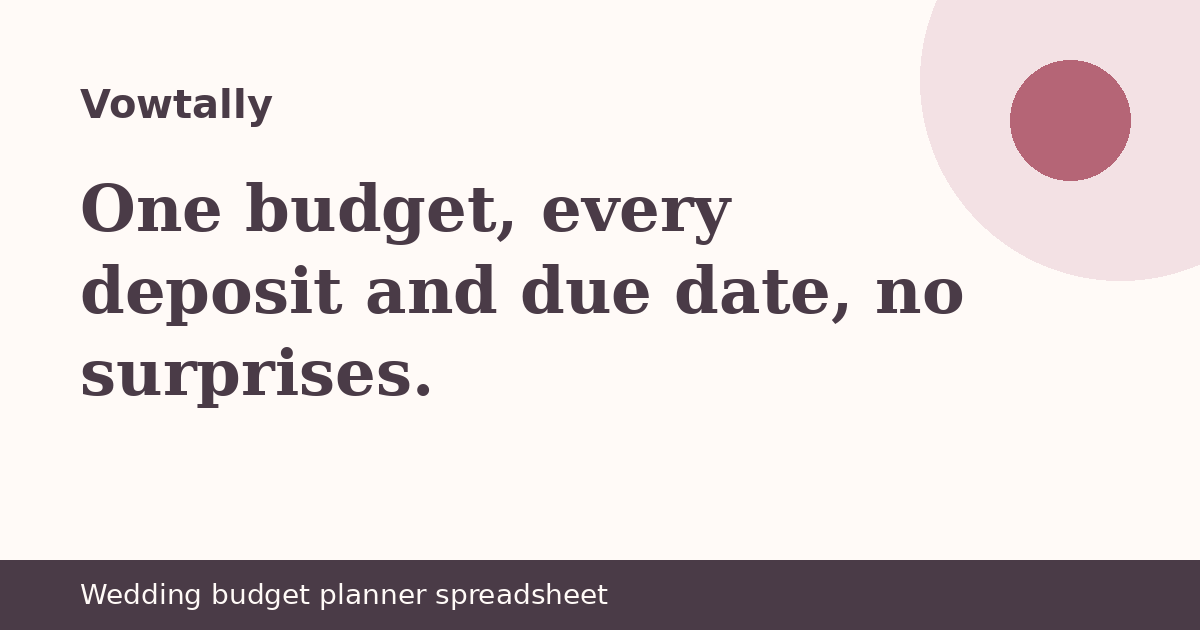
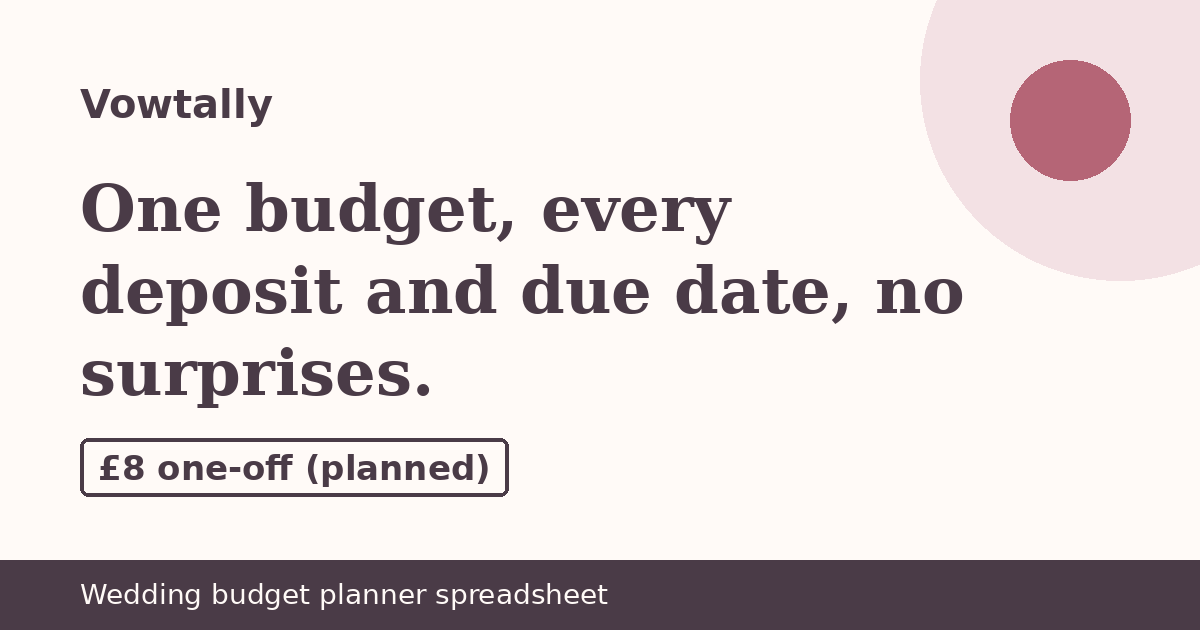
Publish site 2026-10-21 08:30 BST

Changed region(s): [[0.0617, 0.6937, 0.4317, 0.8143]]

diff --git a/index.html b/index.html
@@ -3,7 +3,7 @@
 <head>
 <meta charset="utf-8">
 <meta name="viewport" content="width=device-width, initial-scale=1">
-<meta http-equiv="Content-Security-Policy" content="default-src 'self'; img-src 'self' data: https://localreplyloop.goatcounter.com; style-src 'self'; script-src 'self'; font-src 'self'; connect-src 'self' https://formsubmit.co; form-action 'self'; base-uri 'self'; object-src 'none'">
+<meta http-equiv="Content-Security-Policy" content="default-src 'self'; img-src 'self' data: https://localreplyloop.goatcounter.com; style-src 'self'; script-src 'self'; font-src 'self'; connect-src 'self'; form-action 'self'; base-uri 'self'; object-src 'none'">
 <meta name="referrer" content="strict-origin-when-cross-origin">
 <title>Vowtally: One budget, every deposit and due date, no surprises</title>
 <meta name="description" content="A wedding budget spreadsheet with supplier deposits and due dates, guest-count scenarios and a who-pays split.">
@@ -21,21 +21,14 @@
 </head>
 <body>
 <a class="skip" href="#main">Skip to content</a>
-<header><div class="wrap top"><a class="brand" href="./"><svg viewBox="0 0 64 64" aria-hidden="true" width="34" height="34"><rect width="64" height="64" rx="16" fill="#4A3B47"/><text x="32" y="43" text-anchor="middle" font-family="Georgia, serif" font-weight="700" font-size="30" fill="#FFFAF7">V</text><circle cx="50" cy="50" r="6" fill="#B56576"/></svg>Vowtally</a><nav aria-label="Primary"><a href="#how">How it works</a><a href="#faq">Questions</a><a href="#contact">Contact</a></nav></div></header><section class="hero"><div class="wrap"><div class="art"><svg viewBox="0 0 400 400" role="img" aria-label="Decorative pattern" class="motif" preserveAspectRatio="xMidYMid slice"><circle cx="200" cy="200" r="40" fill="none" stroke="#4A3B47" stroke-opacity="0.90" stroke-width="10"/><circle cx="200" cy="200" r="68" fill="none" stroke="#B56576" stroke-opacity="0.78" stroke-width="9"/><circle cx="200" cy="200" r="96" fill="none" stroke="#4A3B47" stroke-opacity="0.66" stroke-width="8"/><circle cx="200" cy="200" r="124" fill="none" stroke="#B56576" stroke-opacity="0.54" stroke-width="7"/><circle cx="200" cy="200" r="152" fill="none" stroke="#4A3B47" stroke-opacity="0.42" stroke-width="6"/><circle cx="200" cy="200" r="180" fill="none" stroke="#B56576" stroke-opacity="0.30" stroke-width="5"/></svg></div><span class="draft">Draft: not yet available. Enquiries welcome.</span><br><span class="eyebrow">Digital product · draft · Wedding budget planner spreadsheet</span><h1>One budget, every deposit and due date, no surprises.</h1><p class="lede">Vowtally tracks every supplier&#x27;s quote, deposit and balance due date, shows how the total moves if the guest list grows, and keeps a clear record of who is paying for what.</p><div class="ctas"><a class="btn" href="#contact" data-cta="hero">Tell me when it&#x27;s ready</a><a class="btn ghost" href="#faq" data-cta="hero-secondary">Questions</a></div></div></section>
+<header><div class="wrap top"><a class="brand" href="./"><svg viewBox="0 0 64 64" aria-hidden="true" width="34" height="34"><rect width="64" height="64" rx="16" fill="#4A3B47"/><text x="32" y="43" text-anchor="middle" font-family="Georgia, serif" font-weight="700" font-size="30" fill="#FFFAF7">V</text><circle cx="50" cy="50" r="6" fill="#B56576"/></svg>Vowtally</a><nav aria-label="Primary"><a href="#how">How it works</a><a href="#faq">Questions</a><a href="#contact">Contact</a></nav></div></header>
 <main id="main">
+<section class="hero"><div class="wrap"><figure class="art"><svg viewBox="0 0 400 400" aria-hidden="true" focusable="false" class="motif"><circle cx="110" cy="140" r="56" fill="#B56576"/><circle cx="110" cy="140" r="40" fill="#FFFAF7"/><circle cx="170" cy="160" r="56" fill="#4A3B47"/><circle cx="170" cy="160" r="40" fill="#FFFAF7"/><rect x="220" y="120" width="150" height="240" rx="14" fill="#4A3B47"/><rect x="228" y="128" width="134" height="224" rx="8" fill="#FFFAF7"/><rect x="244" y="150" width="104" height="8" rx="4" fill="#F3E1E4"/><rect x="244" y="182" width="74" height="8" rx="4" fill="#F3E1E4"/><rect x="244" y="214" width="44" height="8" rx="4" fill="#F3E1E4"/><rect x="244" y="246" width="104" height="8" rx="4" fill="#F3E1E4"/><rect x="244" y="278" width="74" height="8" rx="4" fill="#F3E1E4"/><rect x="244" y="310" width="44" height="8" rx="4" fill="#F3E1E4"/><rect x="40" y="260" width="160" height="100" rx="12" fill="#F3E1E4"/><rect x="60" y="300" width="120" height="8" rx="4" fill="#4A3B47"/></svg><figcaption class="fine">Illustrative</figcaption></figure><span class="draft">Draft: not yet available. Enquiries welcome.</span><br><span class="eyebrow">Digital product · draft · Wedding budget planner spreadsheet</span><h1>One budget, every deposit and due date, no surprises.</h1><p class="lede">Vowtally tracks every supplier&#x27;s quote, deposit and balance due date, shows how the total moves if the guest list grows, and keeps a clear record of who is paying for what.</p><div class="ctas"><a class="btn" href="#contact" data-cta="hero">Tell me when it&#x27;s ready</a><a class="btn ghost" href="#faq" data-cta="hero-secondary">Questions</a></div></div></section>
 <section class="tint" id="how"><div class="wrap"><span class="eyebrow">How it works</span><h2>A wedding budget spreadsheet with supplier deposits and due dates, guest-count scenarios and a who-pays split.</h2><div class="steps"><div class="step"><h3>Set your total</h3><p>And who is contributing.</p></div><div class="step"><h3>Add suppliers</h3><p>Quote, deposit paid, balance and due date.</p></div><div class="step"><h3>Test guest numbers</h3><p>See the total at 60, 80 or 100 guests.</p></div></div></div></section>
 <section><div class="wrap"><span class="eyebrow">Who it is for</span><h2>For couples planning a UK wedding on a fixed budget.</h2><div class="points"><div class="point"><h3>Due-date view</h3><p>Upcoming balances listed in date order.</p></div><div class="point"><h3>Guest scenarios</h3><p>Per-head costs recalculated instantly.</p></div><div class="point"><h3>Contributions split</h3><p>Clear record of family contributions.</p></div></div></div></section>
-<section class="tint" id="price"><div class="wrap"><span class="eyebrow">Planned price</span><div class="pricebox"><p class="price">£8 one-off (planned)</p><p>This product is a draft and is not on sale yet. Nothing can be bought on this website. Register interest and we&#x27;ll email you when it&#x27;s ready.</p></div></div></section>
+<section class="tint" id="price"><div class="wrap"><span class="eyebrow">Planned price</span><div class="pricebox"><p class="price">£8 one-off (planned)</p><p>This product is a draft and is not on sale yet. Nothing can be bought on this website. You can register interest; we can’t promise a reply or a date yet.</p></div></div></section>
 <section id="faq"><div class="wrap"><span class="eyebrow">Questions</span><h2>Common questions</h2><details><summary>Is it on sale now?</summary><p>Not yet. Vowtally is a draft product. Ask to hear when it&#x27;s ready.</p></details><details><summary>Does it suggest what things should cost?</summary><p>No. You enter your own quotes. We don&#x27;t publish average prices.</p></details><details><summary>Which software does it need?</summary><p>Google Sheets or Excel.</p></details><p class="fine" style="margin-top:18px">Vowtally is a budgeting template. It is not financial advice.</p></div></section>
-<section class="tint" id="contact"><div class="wrap contact-grid"><div><span class="eyebrow">Contact</span><h2>Register interest</h2><p>Vowtally is new and run by one person. Every message is read and answered by email, usually within two working days.</p><p>Email: <a href="mailto:localreply+vowtally@agentmail.to">localreply+vowtally@agentmail.to</a></p></div><form class="form" data-contact data-formsubmit="localreply+vowtally@agentmail.to" data-email="localreply+vowtally@agentmail.to" data-subject="Vowtally enquiry" novalidate>
-<div><label for="f-name">Your name</label><input id="f-name" name="name" autocomplete="name" required></div>
-<div><label for="f-email">Email</label><input id="f-email" name="email" type="email" autocomplete="email" required></div>
-<div><label for="f-plan">About</label><select id="f-plan" name="plan"><option value="Tell me when it&#x27;s ready">Tell me when it&#x27;s ready</option><option value="I have a question">I have a question</option></select></div>
-<div><label for="f-message">Message</label><textarea id="f-message" name="message"></textarea></div>
-<p class="hint">Your message goes to our inbox through FormSubmit (formsubmit.co), our form-delivery provider. If that fails, your own email app opens instead. See our <a href="privacy.html">privacy notice</a>.</p>
-<button class="btn" type="submit">Tell me when it&#x27;s ready</button>
-<p class="form-status" role="status" aria-live="polite"></p>
-</form></div></section>
+<section class="tint" id="contact"><div class="wrap contact-grid"><div><span class="eyebrow">Contact</span><h2>Register interest</h2><p>Vowtally is new and run by one person. Messages go to our inbox. We can’t promise a reply or a timeframe yet.</p><p>Email: <a href="mailto:localreply+vowtally@agentmail.to">localreply+vowtally@agentmail.to</a></p></div><div class="form contact-mail"><p><a class="btn" href="mailto:localreply+vowtally@agentmail.to?subject=%5BVowtally%5D%20Enquiry" data-cta="enquire">Email Vowtally</a></p><p class="hint">This opens your own email app. Nothing is sent through this website. See our <a href="privacy.html">privacy notice</a>.</p></div></div></section>
 </main><footer><div class="wrap"><p>Operated by a UK sole trader trading as Vowtally. Contact: localreply+vowtally@agentmail.to. Postal address available on written request.</p>
 <p><a href="privacy.html">Privacy</a><a href="terms.html">Terms</a><a href="./#contact">Contact</a></p>
 <p class="fine">Vowtally is a budgeting template. It is not financial advice.</p></div></footer>

diff --git a/privacy.html b/privacy.html
@@ -3,7 +3,7 @@
 <head>
 <meta charset="utf-8">
 <meta name="viewport" content="width=device-width, initial-scale=1">
-<meta http-equiv="Content-Security-Policy" content="default-src 'self'; img-src 'self' data: https://localreplyloop.goatcounter.com; style-src 'self'; script-src 'self'; font-src 'self'; connect-src 'self' https://formsubmit.co; form-action 'self'; base-uri 'self'; object-src 'none'">
+<meta http-equiv="Content-Security-Policy" content="default-src 'self'; img-src 'self' data: https://localreplyloop.goatcounter.com; style-src 'self'; script-src 'self'; font-src 'self'; connect-src 'self'; form-action 'self'; base-uri 'self'; object-src 'none'">
 <meta name="referrer" content="strict-origin-when-cross-origin">
 <title>Privacy notice | Vowtally</title>
 <meta name="description" content="Privacy notice for Vowtally.">
@@ -21,13 +21,13 @@
 </head>
 <body>
 <a class="skip" href="#main">Skip to content</a>
-<header><div class="wrap top"><a class="brand" href="./"><svg viewBox="0 0 64 64" aria-hidden="true" width="34" height="34"><rect width="64" height="64" rx="16" fill="#4A3B47"/><text x="32" y="43" text-anchor="middle" font-family="Georgia, serif" font-weight="700" font-size="30" fill="#FFFAF7">V</text><circle cx="50" cy="50" r="6" fill="#B56576"/></svg>Vowtally</a><nav aria-label="Primary"><a href="#how">How it works</a><a href="#faq">Questions</a><a href="#contact">Contact</a></nav></div></header><main id="main"><section><div class="wrap legal"><h1>Privacy notice</h1><p class="fine">Last updated 19 October 2026</p>
+<header><div class="wrap top"><a class="brand" href="./"><svg viewBox="0 0 64 64" aria-hidden="true" width="34" height="34"><rect width="64" height="64" rx="16" fill="#4A3B47"/><text x="32" y="43" text-anchor="middle" font-family="Georgia, serif" font-weight="700" font-size="30" fill="#FFFAF7">V</text><circle cx="50" cy="50" r="6" fill="#B56576"/></svg>Vowtally</a><nav aria-label="Primary"><a href="#how">How it works</a><a href="#faq">Questions</a><a href="#contact">Contact</a></nav></div></header><main id="main"><section><div class="wrap legal"><h1>Privacy notice</h1><p class="fine">Last updated 20 October 2026</p>
 <p><span>Operated by a UK sole trader trading as Vowtally. Contact: localreply+vowtally@agentmail.to. Postal address available on written request.</span> We are the controller for the personal data described here. For anything in this notice, email <a href="mailto:localreply+vowtally@agentmail.to">localreply+vowtally@agentmail.to</a> with “Vowtally” in the subject line.</p>
-<h2>What we collect</h2><p>If you use the form or email us, we receive your name, email address, anything you write in your message and, if you give it, your postcode or town. We use it only to reply to you and, if you ask for it, to deal with your enquiry.</p>
+<h2>What we collect</h2><p>If you email us, we receive your name, email address, anything you write in your message and, if you give it, your postcode or town. We use it only to reply to you and, if you ask for it, to deal with your enquiry.</p>
 <h2>Lawful basis</h2><p>Replying to an enquiry you send us is in our legitimate interests, or steps taken at your request before any agreement (UK GDPR Article 6(1)(f) and 6(1)(b)).</p>
-<h2>Who processes it for us</h2><p>FormSubmit (formsubmit.co) delivers form messages to our inbox. AgentMail (agentmail.to) hosts the inbox. GitHub Pages hosts this website and may log technical data such as IP addresses for security. Some of these providers process data outside the UK under their own safeguards.</p>
+<h2>Who processes it for us</h2><p>AgentMail (agentmail.to) hosts our inbox. GitHub Pages hosts this website and may log technical data such as IP addresses for security. Some of these providers process data outside the UK under their own safeguards.</p>
 <h2>Cookies and analytics</h2><p>We set no cookies. We count page views with GoatCounter, which records the page, referrer and screen size but no cookies and no personal profile. It does not run if your browser sends Do Not Track or Global Privacy Control.</p>
-<h2>How long we keep it</h2><p>We keep enquiry emails for up to 12 months after our last contact, unless you become a customer, in which case we keep records as the law requires.</p>
+<h2>How long we keep it</h2><p>We delete enquiry and order data 30 days after our last contact or after delivery. We keep only the basic order record that tax law requires.</p>
 <h2>Your rights</h2><p>You can ask for a copy of your data, ask us to correct or delete it, or object to how we use it, by emailing <a href="mailto:localreply+vowtally@agentmail.to">localreply+vowtally@agentmail.to</a>. You can complain to the Information Commissioner's Office (ico.org.uk).</p></div></section></main><footer><div class="wrap"><p>Operated by a UK sole trader trading as Vowtally. Contact: localreply+vowtally@agentmail.to. Postal address available on written request.</p>
 <p><a href="privacy.html">Privacy</a><a href="terms.html">Terms</a><a href="./#contact">Contact</a></p>
 <p class="fine">Vowtally is a budgeting template. It is not financial advice.</p></div></footer>

diff --git a/assets/site.css b/assets/site.css
@@ -1,7 +1,7 @@
 @font-face{font-family:'Source Serif 4';font-weight:700;font-style:normal;font-display:swap;src:url(fonts/source-serif-4-latin-700-normal.woff2) format('woff2')}
 @font-face{font-family:'IBM Plex Sans';font-weight:400;font-style:normal;font-display:swap;src:url(fonts/ibm-plex-sans-latin-400-normal.woff2) format('woff2')}
 @font-face{font-family:'IBM Plex Sans';font-weight:600;font-style:normal;font-display:swap;src:url(fonts/ibm-plex-sans-latin-600-normal.woff2) format('woff2')}
-:root{--ink:#4A3B47;--paper:#FFFAF7;--acc:#B56576;--acc-text:#A24E60;--on-acc:#111111;--soft:#F3E1E4;--on-ink:#FFFAF7;--r:10px;--br:10px;--head:'Source Serif 4', Georgia, serif;--body:'IBM Plex Sans', system-ui, sans-serif}
+:root{--ink:#4A3B47;--paper:#FFFAF7;--acc:#B56576;--acc-text:#944757;--on-acc:#111111;--acc-btn:#BA6F7E;--soft:#F3E1E4;--on-ink:#FFFAF7;--r:10px;--br:10px;--head:'Source Serif 4', Georgia, serif;--body:'IBM Plex Sans', system-ui, sans-serif}
 *,*::before,*::after{box-sizing:border-box}html{scroll-behavior:smooth}@media (prefers-reduced-motion:reduce){html{scroll-behavior:auto}*{transition:none!important}}
 body{margin:0;font-family:var(--body);color:var(--ink);background:var(--paper);line-height:1.6;font-size:17px;-webkit-font-smoothing:antialiased}
 h1,h2,h3{font-family:var(--head);line-height:1.15;margin:0 0 .5em;letter-spacing:-.01em}h1{font-size:clamp(2.1rem,5vw,3.6rem)}h2{font-size:clamp(1.5rem,3vw,2.2rem)}h3{font-size:1.15rem}
@@ -10,11 +10,11 @@ p{margin:0 0 1em}a{color:var(--ink);text-decoration-color:var(--acc);text-underl
 :focus-visible{outline:3px solid var(--acc);outline-offset:2px}
 .top{display:flex;align-items:center;justify-content:space-between;padding:18px 0;gap:16px}.brand{display:flex;align-items:center;gap:10px;font-family:var(--head);font-weight:700;font-size:1.25rem;text-decoration:none}
 .top nav a{margin-left:18px;font-size:.95rem;text-decoration:none}.top nav a:hover{text-decoration:underline}
-.btn{display:inline-block;background:var(--acc);color:var(--on-acc);padding:13px 22px;border-radius:var(--br);font-weight:600;text-decoration:none;border:2px solid var(--acc);cursor:pointer;font:inherit;font-weight:600}
-.btn:hover{filter:brightness(.94)}.btn.ghost{background:transparent;color:var(--ink);border-color:var(--ink)}
+.btn{display:inline-block;background:var(--acc-btn);color:var(--on-acc);padding:13px 22px;border-radius:var(--br);font-weight:600;text-decoration:none;border:2px solid var(--acc-btn);cursor:pointer;font:inherit;font-weight:600}
+.btn:hover{filter:none;box-shadow:inset 0 0 0 2px currentColor}.btn.ghost{background:transparent;color:var(--ink);border-color:var(--ink)}
 .eyebrow{display:inline-block;font-size:.8rem;letter-spacing:.12em;text-transform:uppercase;font-weight:600;color:var(--acc-text);margin-bottom:12px}
 .hero{padding:48px 0 64px}.hero .lede{font-size:1.15rem;max-width:40em}.ctas{display:flex;gap:12px;flex-wrap:wrap;margin-top:22px}
-.motif{width:100%;height:auto;max-width:420px;display:block}
+.motif{width:100%;height:auto;max-width:420px;display:block}.art{margin:0}
 .draft{display:inline-block;background:var(--soft);border:1px dashed var(--ink);padding:3px 10px;border-radius:999px;font-size:.82rem;font-weight:600;margin-bottom:14px}
 section{padding:56px 0}.tint{background:var(--soft)}
 .steps{display:grid;grid-template-columns:repeat(auto-fit,minmax(220px,1fr));gap:22px;counter-reset:s}
@@ -25,8 +25,8 @@ section{padding:56px 0}.tint{background:var(--soft)}
 details{border-bottom:1px solid color-mix(in srgb,var(--ink) 18%,transparent);padding:14px 0}summary{cursor:pointer;font-weight:600}details p{margin-top:10px}
 .form{display:grid;gap:14px;max-width:620px}.form label{font-weight:600;font-size:.95rem;display:block;margin-bottom:4px}
 .form input,.form textarea,.form select{width:100%;padding:12px;border:1.5px solid color-mix(in srgb,var(--ink) 40%,transparent);border-radius:calc(var(--r)/2);font:inherit;background:#fff;color:#111}
-.form textarea{min-height:120px}.hint,.fine{font-size:.88rem;opacity:.85}.form-status{font-weight:600}
-.contact-grid{display:grid;grid-template-columns:1fr 1.2fr;gap:40px}@media(max-width:800px){.contact-grid{grid-template-columns:1fr}.top nav{display:none}}
+.form textarea{min-height:120px}.hint,.fine{font-size:.88rem}.form-status{font-weight:600}
+.contact-grid{display:grid;grid-template-columns:1fr 1.2fr;gap:40px}@media(max-width:800px){.contact-grid{grid-template-columns:1fr}.top nav a:not([href="#contact"]){display:none}.top nav a{margin-left:0;padding:10px 0;font-weight:600}}
 footer{padding:36px 0 48px;font-size:.9rem;border-top:1px solid color-mix(in srgb,var(--ink) 15%,transparent)}footer a{margin-right:14px}
 .tool{background:var(--paper);border:2px solid var(--ink);border-radius:var(--r);padding:26px;max-width:640px}.tool .row{display:grid;grid-template-columns:1fr 140px;gap:12px;align-items:center;margin-bottom:10px}
 .tool input[type=number]{padding:10px;border:1.5px solid var(--ink);border-radius:8px;font:inherit;width:100%}.result{margin-top:16px;padding:16px;background:var(--soft);border-radius:calc(var(--r)/2);min-height:3em}

diff --git a/_shared/kit.js b/_shared/kit.js
@@ -69,24 +69,8 @@
     form.addEventListener("submit", function (e) {
       e.preventDefault();
       if (!form.reportValidity()) return;
-      // 2026-10-14: if data-formsubmit is set, deliver via FormSubmit.co straight to the brand inbox; mailto stays as fallback.
-      var fsTok = form.getAttribute("data-formsubmit");
-      if (fsTok && !form.__fsFallback && window.fetch) {
-        var fd = new FormData(form), payload = {}, st = form.querySelector("[role=status]");
-        fd.forEach(function (v, k) { if (k !== "consent") payload[k] = String(v); });
-        payload._subject = (form.getAttribute("data-subject") || "Enquiry") + (payload.business ? " — " + payload.business : "");
-        if (payload.email) payload._replyto = payload.email;
-        payload._captcha = "false"; payload._template = "table";
-        fetch("https://formsubmit.co/ajax/" + fsTok, { method: "POST", headers: { "Content-Type": "application/json", "Accept": "application/json" }, body: JSON.stringify(payload) })
-          .then(function (r) { return r.json(); })
-          .then(function (j) {
-            if (String(j.success) !== "true") throw new Error("fs");
-            if (st) { st.textContent = "Thanks" + (payload.name ? ", " + payload.name.trim().split(" ")[0] : "") + " — your message has been sent. We reply by email."; st.classList.add("is-visible"); }
-            track("contact_sent", { plan: payload.plan || null }); form.reset();
-          })
-          .catch(function () { form.__fsFallback = true; if (st) { st.textContent = "Sending didn't work — opening your email app instead."; st.classList.add("is-visible"); } form.requestSubmit ? form.requestSubmit() : form.dispatchEvent(new Event("submit", { cancelable: true })); });
-        return;
-      }
+      // The form only composes an email
+      // in the visitor's own mail app; nothing is sent through any third-party form processor.
       var to = form.getAttribute("data-email") || cfg.contactEmail;
       var data = new FormData(form);
       var name = (data.get("name") || "").toString().trim();

diff --git a/_shared/kit.css b/_shared/kit.css
@@ -73,6 +73,7 @@ p { margin: 0; }
 .mobile-nav.is-open { display: block; }
 .mobile-nav a { display: flex; align-items: center; min-height: 52px; padding: 0 1.25rem; color: var(--text); text-decoration: none; font-weight: 500; border-bottom: 1px solid var(--line); }
 .mobile-nav .btn { margin: 1rem 1.25rem 1.25rem; display: flex; }
+.mobile-nav .btn--primary, .mobile-nav .btn--primary:hover { color: #fff; }
 @media (min-width: 60rem) {
   .nav { display: flex; }
   .site-header .header-cta { display: inline-flex; margin-left: .75rem; }
@@ -329,3 +330,8 @@ html[data-paused="true"] [data-cta="checkout"] { pointer-events: none; opacity: 
 @media (min-width: 60rem) { .pricing.pricing--single { grid-template-columns: 1fr; } }
 .tier-more { max-width: 64rem; margin: 1.25rem auto 0; text-align: center; color: var(--muted); font-size: .9375rem; line-height: 1.6; }
 .tier-more a { font-weight: 600; white-space: nowrap; }
+
+.site-header .header-link { display: inline-flex; color: var(--ink); font-weight: 600; text-decoration: underline; text-underline-offset: .2em; min-height: 44px; align-items: center; padding: 0 .25rem; }
+@media (max-width: 59.99rem) { .site-header .header-link { display: none; } }
+.btn-row .text-link { display: inline-flex; align-items: center; min-height: 48px; padding: 0 .25rem; color: var(--ink); font-weight: 600; text-decoration: underline; text-underline-offset: .2em; }
+.btn-row .text-link:hover, .site-header .header-link:hover { color: var(--accent-strong); }

diff --git a/404.html b/404.html
@@ -3,7 +3,7 @@
 <head>
 <meta charset="utf-8">
 <meta name="viewport" content="width=device-width, initial-scale=1">
-<meta http-equiv="Content-Security-Policy" content="default-src 'self'; img-src 'self' data: https://localreplyloop.goatcounter.com; style-src 'self'; script-src 'self'; font-src 'self'; connect-src 'self' https://formsubmit.co; form-action 'self'; base-uri 'self'; object-src 'none'">
+<meta http-equiv="Content-Security-Policy" content="default-src 'self'; img-src 'self' data: https://localreplyloop.goatcounter.com; style-src 'self'; script-src 'self'; font-src 'self'; connect-src 'self'; form-action 'self'; base-uri 'self'; object-src 'none'">
 <meta name="referrer" content="strict-origin-when-cross-origin">
 <title>Page not found | Vowtally</title>
 <meta name="description" content="Page not found for Vowtally.">

diff --git a/terms.html b/terms.html
@@ -3,7 +3,7 @@
 <head>
 <meta charset="utf-8">
 <meta name="viewport" content="width=device-width, initial-scale=1">
-<meta http-equiv="Content-Security-Policy" content="default-src 'self'; img-src 'self' data: https://localreplyloop.goatcounter.com; style-src 'self'; script-src 'self'; font-src 'self'; connect-src 'self' https://formsubmit.co; form-action 'self'; base-uri 'self'; object-src 'none'">
+<meta http-equiv="Content-Security-Policy" content="default-src 'self'; img-src 'self' data: https://localreplyloop.goatcounter.com; style-src 'self'; script-src 'self'; font-src 'self'; connect-src 'self'; form-action 'self'; base-uri 'self'; object-src 'none'">
 <meta name="referrer" content="strict-origin-when-cross-origin">
 <title>Terms of use | Vowtally</title>
 <meta name="description" content="Terms of use for Vowtally.">
